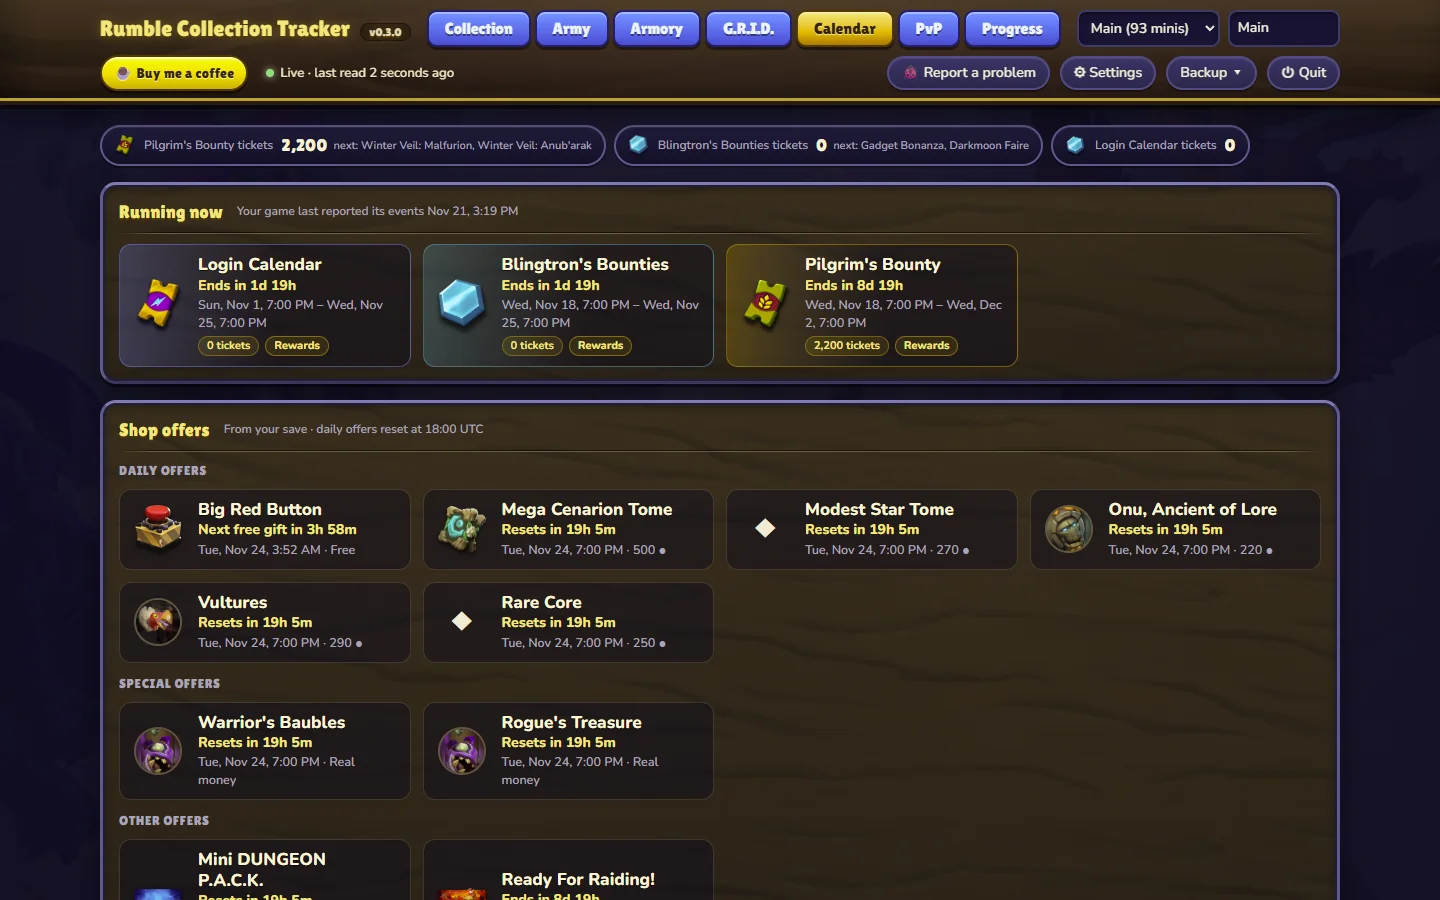
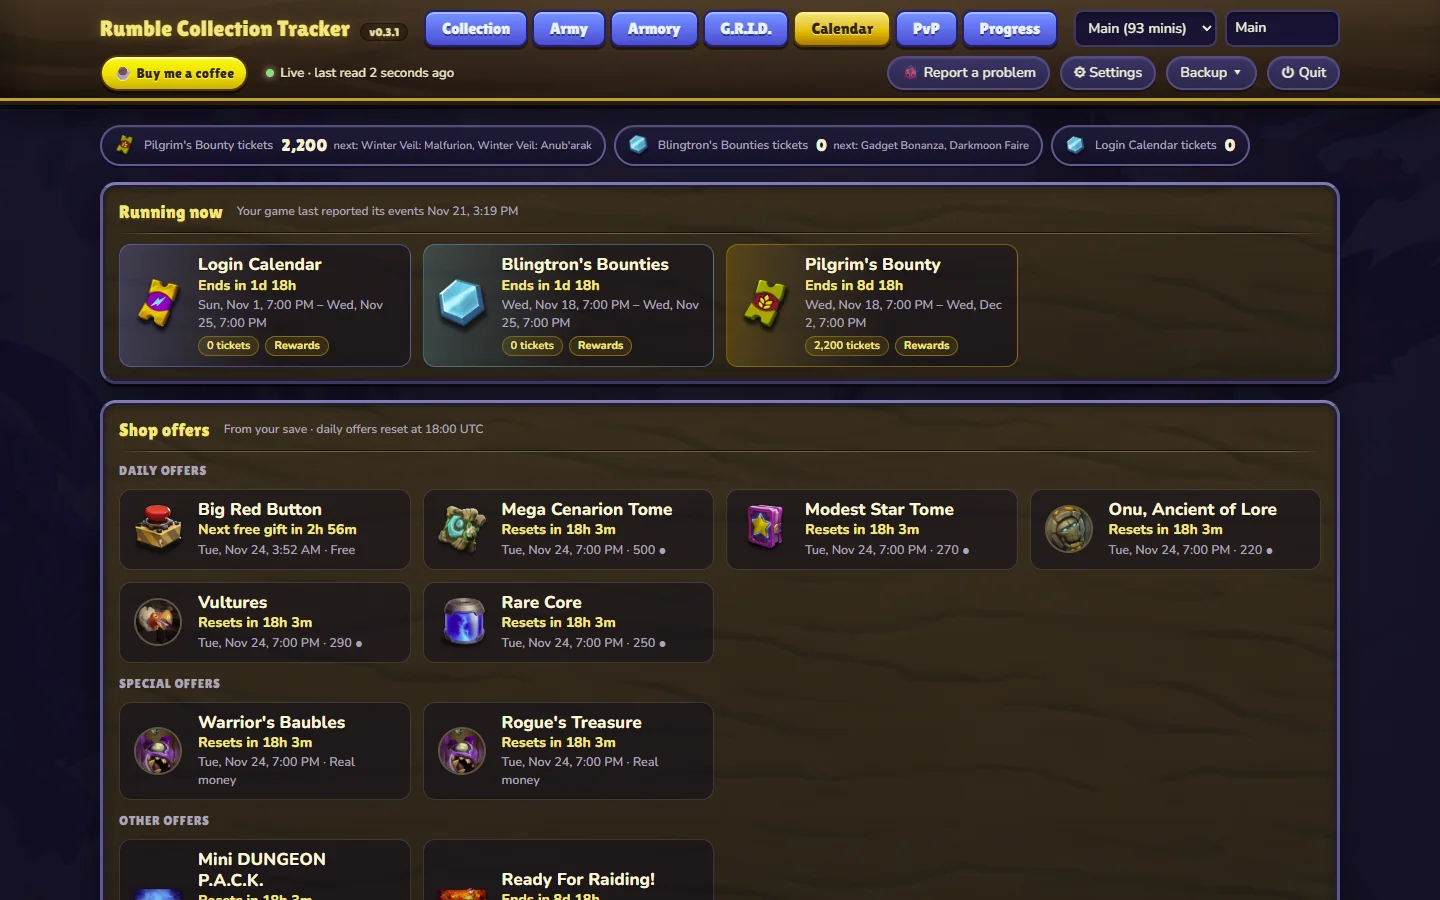
Shop offer pictures from the product, notifications without a save, faction filter fixes

diff --git a/web/scripts/army-pools.js b/web/scripts/army-pools.js
@@ -33,11 +33,12 @@ function poolItems(kind) {
   const d = builder.draft;
   const used = new Set([d.leader, ...d.minis].filter(Boolean));
   const q = p.q.trim().toLowerCase();
+  const fams = p.fam.filter((f) => FAMILIES.includes(f)); // (a faction without a button filters nothing)
   const items = state.units
     .map((u) => ({ u, m: miniOf(u) }))
     .filter(({ u, m }) => m && !u.synthetic && (kind === 'leaders' ? m.category === 'Leader' : m.category !== 'Leader'))
     .filter(({ m }) => !q || m.name.toLowerCase().includes(q))
-    .filter(({ m }) => !p.fam.length || familiesOf(m).some((f) => p.fam.includes(f)))
+    .filter(({ m }) => !fams.length || familiesOf(m).some((f) => fams.includes(f)))
     .filter(({ m }) => kind === 'leaders' || !p.type.length || p.type.includes(m.category))
     .filter(({ m }) => !p.traits.length || p.traits[p.traitMode === 'any' ? 'some' : 'every']((t) => m.traits.some((x) => x.name === t)))
     .map((x) => ({ ...x, used: used.has(x.u.slug), level: kind === 'leaders' ? totalLevel(x.u) : x.u.level,
@@ -69,14 +70,16 @@ export function renderPool(kind) {
   const el = $(`#pool-${kind}`);
   if (!el) return;
   const p = pools()[kind];
-  const famChips = FAMILIES.map((f) => `<button class="chip small-chip" aria-pressed="${p.fam.includes(f)}"
+  const inKind = (m) => (kind === 'leaders' ? m.category === 'Leader' : m.category !== 'Leader');
+  // the factions of this pool's minis (the minis every player has are not in it)
+  const here = new Set(state.units.filter((u) => !u.synthetic).map(miniOf).filter((m) => m && inKind(m)).flatMap(familiesOf));
+  const famChips = FAMILIES.filter((f) => here.has(f)).map((f) => `<button class="chip small-chip" aria-pressed="${p.fam.includes(f)}"
     data-pool-family="${f}" data-pool="${kind}" title="${f}">${iconImage(TAG_ICONS[f], f)}</button>`);
   const typeChips = kind === 'units' ? [['Unit', 'Units'], ['Spell', 'Spells']].map(([k, l]) =>
     `<button class="chip small-chip" aria-pressed="${p.type.includes(k)}" data-pool-type="${k}"
     data-pool="${kind}">${l}</button>`).join('') : '';
   const sorts = [['level', 'Level'], ['name', 'Name'], ['cost', 'Cost'], ...(kind === 'units' ? [['match', 'Fits slots']] : [])];
   // traits present in this pool
-  const inKind = (m) => (kind === 'leaders' ? m.category === 'Leader' : m.category !== 'Leader');
   const inPane = new Set(state.units.map(miniOf).filter((m) => m && inKind(m)).flatMap((m) => m.traits.map((t) => t.name)));
   const traits = allTraits().filter((t) => inPane.has(t.name));
   const picker = traitPicker({

diff --git a/web/scripts/collection.js b/web/scripts/collection.js
@@ -189,8 +189,10 @@ export function allTraits() {
 function passes(m, skip) {
   const f = view.filters;
   if (skip !== 'types' && f.types.length && !f.types.includes(m ? m.category : 'unknown')) return false;
-  // dual-faction leaders match either faction
-  if (skip !== 'families' && f.families.length && !(m && familiesOf(m).some((x) => f.families.includes(x)))) return false;
+  // dual-faction leaders match either faction (a faction without a filter button, as on game data read by an
+  // earlier version of the tracker, filters nothing)
+  const fams = f.families.filter((x) => FAMILIES.includes(x));
+  if (skip !== 'families' && fams.length && !(m && familiesOf(m).some((x) => fams.includes(x)))) return false;
   if (skip !== 'traits' && f.traits.length) {
     if (!m) return false;
     const has = new Set(m.traits.map((t) => t.name));

diff --git a/web/scripts/calendar.js b/web/scripts/calendar.js
@@ -22,7 +22,7 @@ const MONTH_NAMES = ['January', 'February', 'March', 'April', 'May', 'June', 'Ju
 const WEEKDAY_NAMES = ['Sunday', 'Monday', 'Tuesday', 'Wednesday', 'Thursday', 'Friday', 'Saturday'];
 const ordinal = (n) => `${n}${n % 100 >= 11 && n % 100 <= 13 ? 'th' : { 1: 'st', 2: 'nd', 3: 'rd' }[n % 10] || 'th'}`;
 
-export async function loadEvents() {
+async function loadEvents() {
   if (EVENTS) return EVENTS;
   EVENTS = await getJson('/static/events.json', 'the event schedule');
   return EVENTS;
